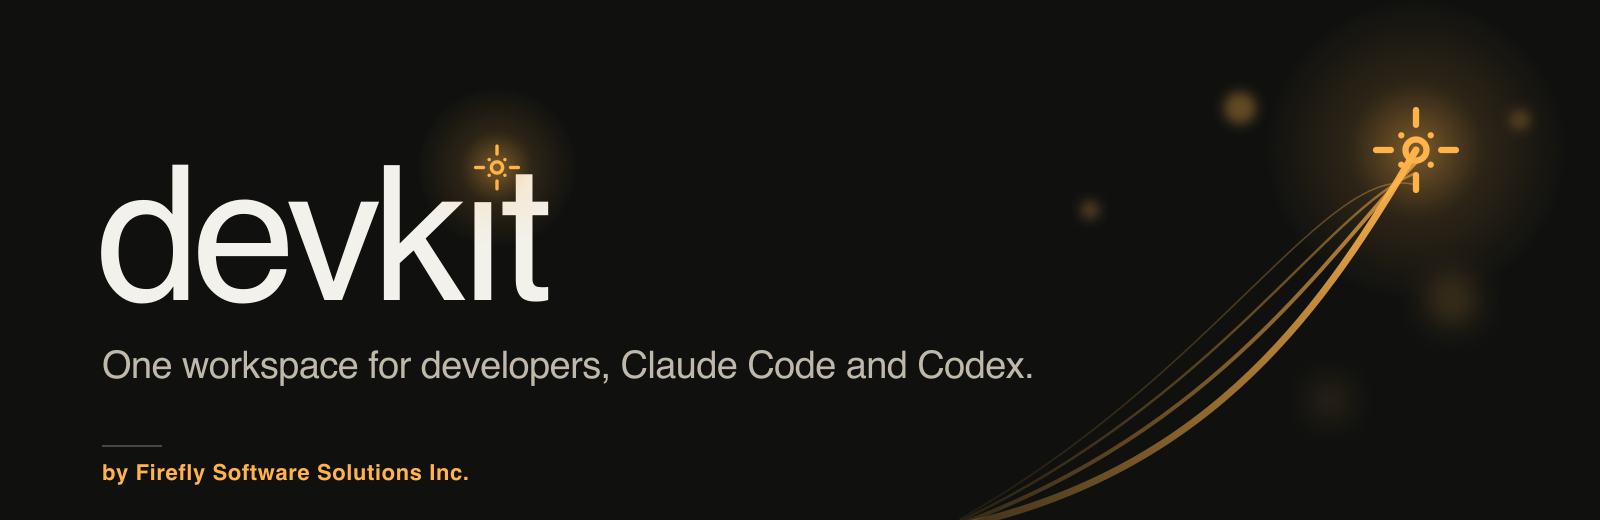
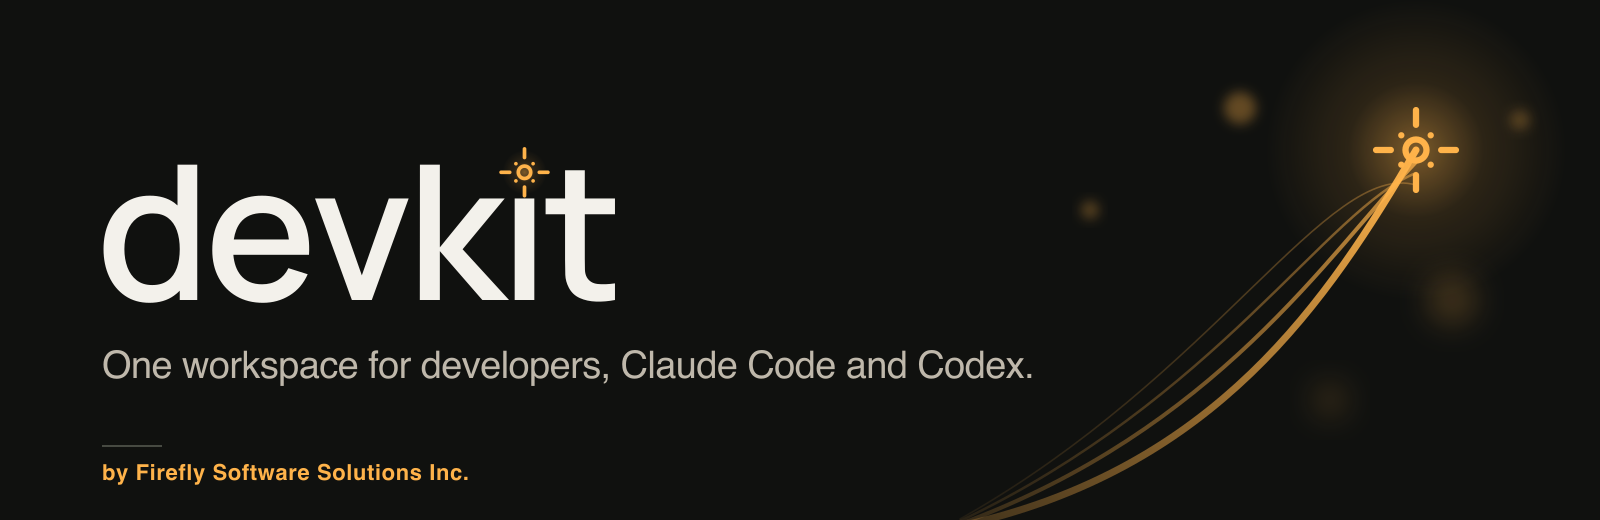
fix(brand): outline the devkit wordmark from Manrope and dot the i exactly
The wordmark is now drawn from Manrope's glyph contours (tools/brand/wordmark.mjs,
fontkit) instead of live text, and the amber spark sits at the exact centre of
the i's original dot. Banners, plugin icons and terminal art are re-rendered;
the terminal lockup uses a larger spark so it survives at 60x9 cells.

Changed region(s): [[0.0625, 0.2462, 0.4062, 0.5846]]

diff --git a/tools/brand/render.py b/tools/brand/render.py
@@ -40,6 +40,20 @@ DEFS = f"""<defs>
 </defs>"""
 
 
+def wordmark(x, baseline, size, ink, glow=True, spark_factor=0.125):
+    """The devkit wordmark from Manrope outlines (assets/src/wordmark.json, made by wordmark.mjs), its i dotted
+    by the amber spark exactly at the centre of the original dot. Returns (svg, width_px)."""
+    import json
+    wm = json.loads((ROOT / "assets" / "src" / "wordmark.json").read_text())
+    k = size / wm["unitsPerEm"]
+    sp = wm["spark"]
+    sx, sy = x + sp["cx"] * k, baseline + sp["cy"] * k
+    s = spark_factor * sp["dot"] * k
+    svg = (f'<path transform="translate({x:.1f},{baseline:.1f}) scale({k:.5f})" d="{wm["d"]}" fill="{ink}"/>'
+           + spark(round(sx, 1), round(sy, 1), round(s, 2), glow=glow, glow_r=round(9 * s, 1)))
+    return svg, wm["width"] * k
+
+
 def icon_svg(size=512):
     """App icon: a terminal prompt in paper on charcoal; the cursor's light trail ends in the amber spark."""
     return f"""<svg xmlns="http://www.w3.org/2000/svg" width="{size}" height="{size}" viewBox="0 0 512 512">
@@ -59,7 +73,6 @@ def hero_svg(theme="dark", W=1600, H=520):
     m = 96                       # left margin
     base = 300                   # wordmark baseline
     size = 188                   # wordmark size
-    dot_x, dot_y = m + 2.133 * size, base - 0.705 * size  # spark dots the dotless i (tuned visually)
     trails = []
     for i, (w, op, dy, bend) in enumerate(((7, 1.0, 0, 0), (4, 0.75, 46, 40), (2.5, 0.5, 92, 70), (1.6, 0.35, 140, 95))):
         trails.append(f'<path d="M{W * 0.60:.0f} {H + 6 - dy * 0.05:.0f} C {W * 0.76:.0f} {H - 50 - bend:.0f}, '
@@ -74,8 +87,7 @@ def hero_svg(theme="dark", W=1600, H=520):
 {bokeh}
 {''.join(trails)}
 {spark(int(W * 0.885), 150, 4.2, glow_r=150)}
-<text x="{m}" y="{base}" font-family="Manrope" font-size="{size}" font-weight="500" letter-spacing="-9" fill="{ink}">devkıt</text>
-{spark(dot_x, dot_y, 2.25, glow_r=80)}
+{wordmark(m, base, size, ink)[0]}
 <text x="{m + 6}" y="{base + 78}" font-family="Manrope" font-size="38" font-weight="400" letter-spacing="-0.6" fill="{sub}">One workspace for developers, Claude Code and Codex.</text>
 <line x1="{m + 6}" y1="{H - 74}" x2="{m + 66}" y2="{H - 74}" stroke="{hair}" stroke-width="2"/>
 <text x="{m + 6}" y="{H - 40}" font-family="Manrope" font-size="22" font-weight="650" letter-spacing="0.6" fill="{label}">by Firefly Software Solutions Inc.</text>
@@ -86,7 +98,6 @@ def lockup_svg(theme="dark"):
     """Transparent lockup for terminal art: the prompt-and-spark mark + the devkıt wordmark with its spark."""
     ink = PAPER if theme == "dark" else CHARCOAL
     size, base, m = 200, 236, 300
-    dot_x, dot_y = m + 2.133 * size, base - 0.705 * size
     return f"""<svg xmlns="http://www.w3.org/2000/svg" width="1100" height="300" viewBox="0 0 1100 300">
 {DEFS}
 <g transform="translate(-6,-14) scale(0.62)">
@@ -95,8 +106,7 @@ def lockup_svg(theme="dark"):
 <path d="M300 334 C 352 330, 382 280, 380 204" fill="none" stroke="url(#trail)" stroke-width="16" stroke-linecap="round"/>
 {spark(372, 150, 8.5, glow=False)}
 </g>
-<text x="{m}" y="{base}" font-family="Manrope" font-size="{size}" font-weight="700" letter-spacing="-8" fill="{ink}">devkıt</text>
-{spark(dot_x, dot_y, 2.9, glow=False)}
+{wordmark(m, base, size, ink, glow=False, spark_factor=0.24)[0]}
 </svg>"""
 
 
